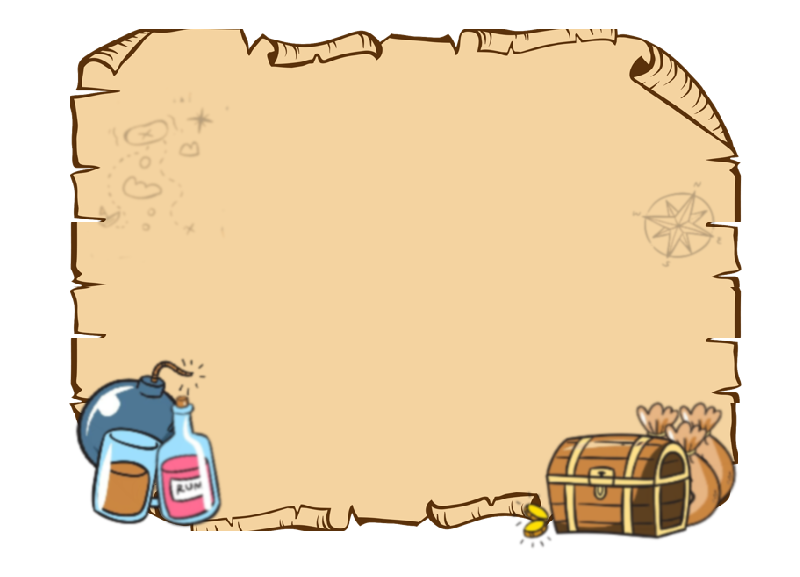
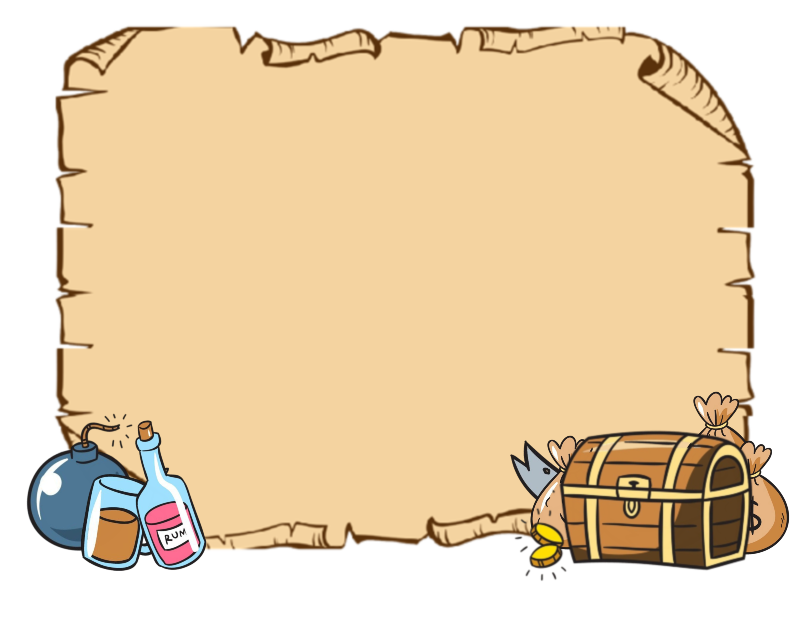
Splash screen, reveal one tile on start

diff --git a/src/client/splash/NewMenu.tsx b/src/client/splash/NewMenu.tsx
@@ -1,58 +1,103 @@
 import { GuiButton } from '../UI/GUIButton';
+import { requestExpandedMode } from '@devvit/web/client';
+import { ReactNode, useEffect, useState } from 'react';
+import { usePirateChestAPI } from '../hooks/usePirateChestApi';
+import { DailyChallengeResponse } from '../../shared/types/api';
+
+export interface GuideProps {
+  image: string;
+  alt: string;
+  children?: ReactNode;
+}
+
+const Guide = ({image, alt, children}: GuideProps) => {
+  return (
+    <article className="flex flex-row flex-nowrap items-center justify-start gap-1 w-full">
+      <div className="w-6 h-6">
+        <img src={`/images/${image}.png`} alt={alt} className="w-full h-full object-contain" />
+      </div>
+      <p className="text-lg leading-5 text-stone-800 font-indie font-bold">{children}</p>
+    </article>
+  );
+}
+
 
 export const NewMenu = () => {
 
+  const { getDailyChallenge, loading } = usePirateChestAPI();
+  const [dailyData, setDailyData] = useState<DailyChallengeResponse | null>(null);
+
+  useEffect(() => {
+    const fetchData = async () => {
+      const data = await getDailyChallenge();
+      if (data) {
+        setDailyData(data);
+      }
+    };
+    fetchData();
+  }, [getDailyChallenge]);
+
+  const totalGold = dailyData?.stats?.findings?.gold ?? 0;
+
   return (
-    <div className="flex flex-col items-center justify-start min-h-screen p-4 gap-4 w-full"
+    <main className="flex flex-col items-center justify-between min-h-screen max-h-screen p-0 pt-4 gap-2 w-full relative"
          style={{
            backgroundImage: 'url("/images/wood.png")',
            backgroundRepeat: 'repeat',
            backgroundSize: '512px auto',
          }}
     >
-      <div className="flex flex-col items-center w-full">
-        <div className="h-[120px] w-full"
+      <section className="flex flex-col items-center w-full">
+        <div className="h-[80px] w-full"
              style={{
                backgroundImage: 'url("/images/logo.png")',
                backgroundSize: 'contain',
                backgroundRepeat: 'no-repeat',
                backgroundPosition: 'center',
              }}
+             aria-label="Pirate Chest"
         >
-          {/*<img*/}
-          {/*  src="/images/logo.png"*/}
-          {/*  alt="Pirate Sweeper Logo"*/}
-          {/*  className="h-20 w-24 object-contain"*/}
-          {/*/>*/}
-          {/*<h1 className="font-bold text-4xl text-shadow-xs text-amber-100 text-shadow-amber-900">Pirate Chest</h1>*/}
         </div>
-      </div>
-      <div className="py-6 px-8 w-full max-w-[460px] flex flex-col items-center justify-center grow text-base font-normal"
-           style={{
-             backgroundImage: 'url("/images/scroll-big.png")',
-             backgroundSize: '100% 100%',
-             backgroundRepeat: 'no-repeat',
-           }}
+      </section>
+      <section
+        className="flex flex-col items-center justify-center gap-2 max-w-[70%] min-w-[320px] w-full drop-shadow-2xl drop-shadow-amber-950"
+        style={{
+          borderImageSource: 'url("/images/banner_hud.png")',
+          borderImageSlice: '96 fill',
+          borderWidth: '34px',
+          borderStyle: 'solid',
+          background: 'none'
+        }}
       >
-        <p>
-          Count steps to find treasures!
-        </p>
-        <p>
-          Be careful of surrounding bombs!
-        </p>
-        <p>
-          Moves costs rum. Don't ru dry!
-        </p>
-      </div>
-      <div className="flex flex-col items-center justify-center w-full grow">
-        <GuiButton image="menu_btn" label="Dig in!" variant="text" onClick={() => console.log("Dig in!")} />
+
+        <Guide image="steps" alt="steps">
+            Count steps to find treasures!
+        </Guide>
+        <Guide image="bomb" alt="bomb">
+            Be careful of surrounding bombs!
+        </Guide>
+        <Guide image="rum" alt="rum">
+            Moves costs rum. Don't run dry!
+        </Guide>
+        <Guide image="money" alt="money">
+            Treasures and rum are sold for gold!
+        </Guide>
+
+
+      </section>
+      <section className="flex flex-col items-center justify-center w-full gap-2">
+        <GuiButton image="menu_btn" label="Start digging!" variant="text" onClick={(e) => requestExpandedMode(e.nativeEvent, 'game')} />
         <div className="flex flex-row items-center">
           <GuiButton image="leadership_btn" label="Leaders" variant="icon" onClick={() => console.log("Leaders")} />
         </div>
-      </div>
-      <div className="text-amber-100">
-        Pomelo
-      </div>
-    </div>
+      </section>
+      <footer className="text-amber-100 text-center w-full  p-1 bg-amber-950/60">
+      {dailyData ? (
+          <p>Ahoy, {dailyData?.username}! Yer total loot is {totalGold}</p>
+      ) : <p>
+        Ahoy, Matey!
+      </p>}
+      </footer>
+    </main>
   )
 }

diff --git a/src/client/splash.html b/src/client/splash.html
@@ -6,26 +6,23 @@
       name="viewport"
       content="width=device-width, initial-scale=1.0, maximum-scale=1.0, user-scalable=no"
     />
+    <link rel="preload" as="image" href="/images/wood.png" />
     <link rel="preload" as="image" href="/images/logo.png" />
-    <link rel="preload" as="image" href="/images/water.png" />
+
     <link rel="preload" as="image" href="/images/chest.png" />
     <link rel="preload" as="image" href="/images/rum.png" />
     <link rel="preload" as="image" href="/images/bomb.png" />
-    <link rel="preload" as="image" href="/images/bomb_hud.png" />
     <link rel="preload" as="image" href="/images/gold.png" />
     <link rel="preload" as="image" href="/images/fish.png" />
     <link rel="preload" as="image" href="/images/tile.png" />
     <link rel="preload" as="image" href="/images/board.png" />
-    <link rel="preload" as="image" href="/images/wood.png" />
-    <link rel="preload" as="image" href="/images/gold-hud.png" />
-    <link rel="preload" as="image" href="/images/empty_btn.png" />
+    <link rel="preload" as="image" href="/images/water.png" />
     <link rel="preload" as="image" href="/images/menu_btn.png" />
-    <link rel="preload" as="image" href="/images/banner_paper_wide.png" />
-    <link rel="preload" as="image" href="/images/wooden_banner_wide.png" />
+    <link rel="preload" as="image" href="/images/banner_hud.png" />
     <link rel="preload" as="image" href="/images/wooden_banner.png" />
     <title>Pirate Chest</title>
   </head>
-  <body class="h-full">
+  <body class="h-full max-h-screen">
     <div id="root" class="h-full"></div>
     <script type="module" src="splash/splash.tsx"></script>
   </body>

diff --git a/src/client/UI/icons.tsx b/src/client/UI/icons.tsx
@@ -19,3 +19,16 @@ export const ScrollIcon = ({ className }: { className?: string }) => (
     <path fillRule="evenodd" d="M5.625 1.5H9a3.75 3.75 0 013.75 3.75v1.875c0 1.036.84 1.875 1.875 1.875H20.25a2.25 2.25 0 012.25 2.25V16.5c0 1.035-.84 1.875-1.875 1.875h-2.969l-1.406 4.219c-.317.951-1.464 1.483-2.348 1.055L6.675 20.25h-.75a2.25 2.25 0 01-2.25-2.25v-13.5a2.25 2.25 0 012.25-2.25h.3zm12.375 15h-1.688c-1.167 0-2.217.536-2.93 1.409l-1.503 1.838 5.234 1.603a.375.375 0 00.487-.219l1.406-4.218a.375.375 0 00-1.006-.413zM6 16.5v.75c0 .414.336.75.75.75h9.75c.414 0 .75-.336.75-.75v-.75a.75.75 0 00-.75-.75H6.75a.75.75 0 00-.75.75z" clipRule="evenodd" />
   </svg>
 );
+
+export const StepsIcon = ({ className }: { className?: string }) => (
+  <svg
+    viewBox="0 0 24 24"
+    fill="currentColor"
+    className={className}
+    xmlns="http://www.w3.org/2000/svg"
+  >
+    <path d="M15.5,2 C13.567,2 12,3.567 12,5.5 V10 C12,12.761 13.567,15 15.5,15 C17.433,15 19,12.761 19,10 V5.5 C19,3.567 17.433,2 15.5,2 Z" />
+
+    <path d="M8.5,9 C6.567,9 5,10.567 5,12.5 V17 C5,19.761 6.567,22 8.5,22 C10.433,22 12,19.761 12,17 V12.5 C12,10.567 10.433,9 8.5,9 Z" />
+  </svg>
+);

diff --git a/src/client/UI/GUIButton.tsx b/src/client/UI/GUIButton.tsx
@@ -6,16 +6,18 @@ export interface IGuiButtonProps {
   onClick: (args: any) => void;
   image: string;
   label: string;
-  classes?: string;
+  classes?: string | ReactNode;
   variant?: GuiBtnVariant,
   svgIcon?: ReactNode,
 }
 
 export const GuiButton = ({onClick, classes, label = '', image, variant = 'icon', svgIcon}: IGuiButtonProps) => {
+  const size = variant !== 'text' ? 'w-8 h-8' : 'h-12 w-36 p-2';
+
   return (
     <button
       onClick={onClick}
-      className={`w-8 h-8 cursor-pointer ${classes}`}
+      className={`${size} cursor-pointer flex items-center justify-center ${classes}`}
       aria-label={label}
       style={{
         backgroundImage: `url("/images/${image}.png")`,
@@ -25,7 +27,7 @@ export const GuiButton = ({onClick, classes, label = '', image, variant = 'icon'
       }}
     >
       {variant === 'text' && (
-        <span>{label}</span>
+        <span className="text-[#A04623] text-shadow-2xs text-shadow-[#A2FFB6] text-base leading-4b mb-1">{label}</span>
       )}
       {variant === 'svg' && (
         <div className="h-full w-full flex items-center justify-center">

diff --git a/src/client/game/GameProgress.tsx b/src/client/game/GameProgress.tsx
@@ -62,7 +62,7 @@ export const GameProgress = ({ moves, treasuresFound, totalTreasures, bombs, poi
       {/* TREASURES SECTION */}
       <ProgressSection
         label="Treasures"
-        iconSrc="/images/chest.png"
+        iconSrc="/images/gold.png"
         value={
           <>
             {treasuresFound} <span className="text-xl leading-none">/</span> {totalTreasures}
@@ -74,16 +74,15 @@ export const GameProgress = ({ moves, treasuresFound, totalTreasures, bombs, poi
       {bombs ? (
         <ProgressSection
           label="Bombs"
-          iconSrc="/images/bomb_hud.png"
+          iconSrc="/images/bomb.png"
           value={bombs}
           classes="text-stone-600"
-          imgClasses="h-10"
         />
       ) : null}
 
       <ProgressSection
         label="Gold"
-        iconSrc="/images/gold-hud.png"
+        iconSrc="/images/money.png"
         value={
           <>
             {points}

diff --git a/src/client/UI/Layout.tsx b/src/client/UI/Layout.tsx
@@ -7,7 +7,7 @@ interface LayoutProps {
 
 export const Layout = ({ children, className = '' }: LayoutProps) => {
   return (
-    <div className={`font-pirate flex flex-col items-center min-h-screen w-full max-h-screen  relative overflow-hidden ${className}`}
+    <div className={`font-pirate flex flex-col items-center min-h-screen w-full h-full  relative overflow-hidden ${className}`}
          style={{
            backgroundImage: 'url("/images/water.png")',
            backgroundRepeat: 'repeat',

diff --git a/src/client/index.css b/src/client/index.css
@@ -1,9 +1,13 @@
-@import url('https://fonts.googleapis.com/css2?family=Pirata+One&display=swap');
+@import url('https://fonts.googleapis.com/css2?family=Pirata+One&family=Indie+Flower&display=swap');
 @import 'tailwindcss';
 
 .font-pirate {
   font-family: 'Pirata One', cursive;
   letter-spacing: 0.05em;
+}
+
+.font-indie {
+  font-family: 'Indie Flower', sans-serif;
 }
 
 .bg-wave {

diff --git a/src/client/hooks/useGame.ts b/src/client/hooks/useGame.ts
@@ -161,6 +161,14 @@ export const useGame = (initialDifficulty: 'base' = 'base') => {
       });
     });
 
+    const revealedItem = filledMatrix.flat().find((item) => {
+      return !item.isTreasure && +item.value >= 3;
+    });
+
+    if (revealedItem) {
+      revealedItem.isRevealed = true;
+    }
+
     setMatrix(filledMatrix);
     resetState();
   };

diff --git a/src/client/game.html b/src/client/game.html
@@ -8,7 +8,7 @@
     />
     <title>Pirate Chest</title>
   </head>
-  <body class="h-full">
+  <body class="h-full max-h-screen">
     <div id="root" class="h-full"></div>
     <script type="module" src="game/game.tsx"></script>
   </body>
